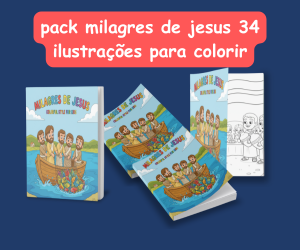
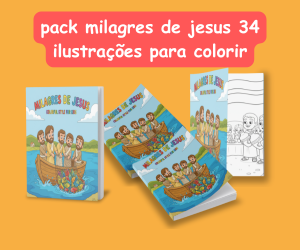
ajutes na paleta de cores add o link de venda

diff --git a/index.html b/index.html
@@ -19,7 +19,7 @@
         rel="stylesheet">
 
     <!-- Favicon -->
-    <link rel="icon" href="./src/assets/imgs/favicon.ico" type="image/x-icon">
+    <link rel="icon" href="./src/assets/imgs/favicon.png" type="image/x-icon">
 
 
     <!-- Open Graph (para WhatsApp, Facebook, Telegram) -->
@@ -40,13 +40,13 @@
         content="Ilustrações bíblicas exclusivas no estilo Bob Goods. Prontas para imprimir e colorir.">
     <meta name="twitter:image" content="https://website-colorindo-a-biblia.vercel.app/src/assets/imgs/meta-cover.png">
 
-    <title>Colorindo a Bíblia</title>
+    <title>Colorindo com a Bíblia</title>
 </head>
 
 <body>
     <header id="header-id">
         <section class="section_header">
-            <h1 class="title">Colorindo a Bíblia</h1>
+            <h1 class="title">Colorindo com a Bíblia</h1>
         </section>
     </header>
     <main>
@@ -85,7 +85,7 @@
         <section class="section_content">
             <div class="content" style="height: 700px;">
                 <div class="content_description">
-                    <h2 class="title_content">// Bem-vindo ao Colorindo a Bíblia</h2>
+                    <h2 class="title_content">// Bem-Vindo</h2>
                     <div class="content_mottos">
                         <p class="mottos">Educativo</p>
                         <p class="mottos">Divertido</p>
@@ -134,8 +134,8 @@
                                         <div class="easyzoom easyzoom--overlay">
                                             <a href="./src/assets/imgs/packs-20-herois-da-biblia-ilustração.png "
                                                 target="_blank">
-                                                <img src="./src/assets/imgs/packs-20-herois-da-biblia.png" alt=""
-                                                    width="250" height="280" oncontextmenu="return false;" />
+                                                <img src="./src/assets/imgs/pack-1.png" alt="" width="250" height="280"
+                                                    oncontextmenu="return false;" />
                                             </a>
                                         </div>
                                         <p>Clique veja algumas prévias :)</p>
@@ -146,14 +146,15 @@
                                         <ul class="beneficios">
                                             <li>📖 20 personagens bíblicos</li>
                                             <li>🎨 +100 ilustrações prontas para colorir</li>
+                                            <li>🕹 +jogos interativos</li>
                                             <li>🖨 Arquivos em PDFS prontos para impresão</li>
                                             <li>✨ Estilo exclusivo inspirado em Bob Goods</li>
                                         </ul>
                                         <div class="item_content_price">
-                                            <h3 class="preco_ancora">De <span class="cortado">R$59,00</span></h3>
-                                            <h2 class="preco_final">Por apenas <span>R$35,00</span></h2>
+                                            <h3 class="preco_ancora">De <span class="cortado">R$39,90</span></h3>
+                                            <h2 class="preco_final">Por apenas <span>R$19,95</span></h2>
                                             <p class="timer_text">⏰ Oferta acaba em <span id="countdown1"></span></p>
-                                            <button class="btn_comprar">Quero meu pack agora ✨</button>
+                                            <button class="btn_comprar"onclick="window.open('https://pay.kiwify.com.br/2f0JPUo', '_blank')">Quero meu pack agora ✨</button>
                                         </div>
                                     </div>
                                 </div>
@@ -162,8 +163,8 @@
                                         <div class="easyzoom easyzoom--overlay">
                                             <a href="./src/assets/imgs/pack-milagres-de-jesus-ilustração.png"
                                                 target="_blank">
-                                                <img src="./src/assets/imgs/pack-milagres-de-jesus.png" alt=""
-                                                    width="250" height="280" oncontextmenu="return false;" />
+                                                <img src="./src/assets/imgs/pack-2.png" alt="" width="250" height="280"
+                                                    oncontextmenu="return false;" />
                                             </a>
                                         </div>
                                         <p class="text_previw">Clique veja algumas prévias :)</p>
@@ -173,14 +174,15 @@
                                         <ul class="beneficios">
                                             <li>📖 Os principais milagres de Jesus</li>
                                             <li>🎨 +34 ilustrações prontas para colorir</li>
+                                            <li>🕹 +jogos interativos</li>
                                             <li>🖨 Arquivos em PDFS prontos para impresão</li>
                                             <li>✨ Estilo exclusivo inspirado em Bob Goods</li>
                                         </ul>
                                         <div class="item_content_price">
-                                            <h3 class="preco_ancora">De <span class="cortado">R$35,00</span></h3>
-                                            <h2 class="preco_final">Por apenas <span>R$15,00</span></h2>
+                                            <h3 class="preco_ancora">De <span class="cortado">R$29,90</span></h3>
+                                            <h2 class="preco_final">Por apenas <span>R$14,95</span></h2>
                                             <p class="timer_text">⏰ Oferta acaba em <span id="countdown2"></span></p>
-                                            <button class="btn_comprar">Quero meu pack agora ✨</button>
+                                            <button class="btn_comprar"  onclick="window.open('https://pay.kiwify.com.br/0sP9Kyu', '_blank')">Quero meu pack agora ✨</button>
                                         </div>
                                     </div>
                                 </div>
@@ -228,9 +230,9 @@
             </section>
         </section>
     </main>
-    <footer>
+    <!-- <footer>
         <p>&copy; 2025 Colorindo a Bíblia - Todos os direitos reservados.</p>
-    </footer>
+    </footer> -->
 </body>
 <script type="module" src="./src/js/script.js"></script>
 

diff --git a/src/css/carousel.css b/src/css/carousel.css
@@ -24,7 +24,7 @@
     border-width: 0.5px;
     border-style: dashed;
     border-color: aliceblue;
-    background-color: #2e5192;
+    background-color: #ff3131;
     border-radius: 50%;
     display: flex;
     align-items: center;
@@ -64,7 +64,7 @@
 .item {
     display: flex;
     min-width: 100%;
-    height: 80%;
+    height: 85%;
     border-radius: 15px;
     color: #fff;
     font-size: 2rem;
@@ -77,6 +77,7 @@
     top: 0;
     left: 100%;
     transition: left 0.5s ease;
+    overflow: hidden;
 }
 
 /* Estado inicial fora da tela */
@@ -109,7 +110,15 @@
     display: flex;
     flex-direction: column;
     justify-content: center;
+    align-items: center;
 
+
+}
+
+.item_img img {
+    border-radius: 20px;
+    width: 230px;
+    margin-left: 10px;
 }
 
 
@@ -209,7 +218,7 @@
 @media screen and (max-width: 480px) {
     #content {
         height: auto !important;
-        min-height: 50%;
+        height: 55%;
         /* garante pelo menos a altura do pai */
     }
 

diff --git a/index2.html b/index2.html
@@ -114,6 +114,7 @@
                                         <ul class="beneficios">
                                             <li>📖 20 personagens bíblicos</li>
                                             <li>🎨 +100 ilustrações prontas para colorir</li>
+                                             <li>🕹 +jogos</li>
                                             <li>🖨 Arquivos em PDFS prontos para impresão</li>
                                             <li>✨ Estilo exclusivo inspirado em Bob Goods</li>
                                         </ul>

diff --git a/src/css/content.css b/src/css/content.css
@@ -11,7 +11,7 @@
     height: auto;
     border-radius: 15px;
     padding: 15px;
-    background-color: #2e5192;
+    background-color: #2275ad;
     display: flex;
     flex-direction: row;
     justify-content: space-around;
@@ -36,7 +36,7 @@
     height: 200px;
     margin-left: 8px;
     border-radius: 50%;
-    box-shadow: 1px 2px 2px 1px #0000006c;
+    /* box-shadow: 1px 2px 2px 1px #0000006c; */
 }
 
 .title_content {

diff --git a/src/css/video.css b/src/css/video.css
@@ -35,7 +35,7 @@ video {
 
 #muteButton:hover {
     transform: scale(1);
-    background: #2e5192;
+    background: #f8af42;
 }
 
 @media screen and (max-width: 768px) {

diff --git a/src/css/faq.css b/src/css/faq.css
@@ -142,6 +142,7 @@
         display: flex;
     }
     .faqs{
+        margin-top: 0.80rem;
         width: 85%;
         border-radius: 10px;
     }

diff --git a/src/css/header.css b/src/css/header.css
@@ -22,6 +22,6 @@ header {
 
 @media screen and (max-width: 768px) {
     .title {
-        font-size: 2.5rem;
+        font-size: 2.2rem;
     }
 }
